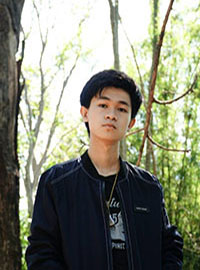
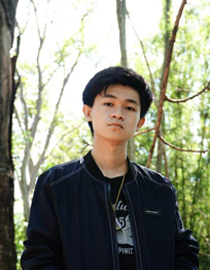
fix images

diff --git a/aboutus.html b/aboutus.html
@@ -95,6 +95,7 @@
             </nav>
           </div>
     </div>
+    <!-- Header -->
     <div class="container">
         <div class="p-4 p-md-5 mb-4 text-white rounded " style="background-image: url('https://images.unsplash.com/photo-1531331432998-4002cbf3b28c?ixid=MXwxMjA3fDB8MHxwaG90by1wYWdlfHx8fGVufDB8fHw%3D&ixlib=rb-1.2.1&auto=format&fit=crop&w=1050&q=80')">
             <div class="col-md-6 px-0">
@@ -103,166 +104,167 @@
               <a href="#ourshop" class="text-white fw-bold">More details...</a>
             </div>
         </div>
-        <!-- <div class="card bg-dark text-white mb-4 rounded">
-          <img src="https://images.unsplash.com/photo-1531331432998-4002cbf3b28c?ixid=MXwxMjA3fDB8MHxwaG90by1wYWdlfHx8fGVufDB8fHw%3D&ixlib=rb-1.2.1&auto=format&fit=crop&w=600&h=150&q=80" class="card-img" alt="...">
-          <div class="card-img-overlay">
-            <h1 class="display-4 fst-italic">90's taste</h1>
-            <p class="lead my-3">We are the biggest 90's online shop. We are selling Cassette tape, Vinyl, and Films</p>
-              <a href="#ourshop" class="text-white fw-bold">More details...</a>
-          </div>
-        </div> -->
-        <div class="container" id="dev">
-            <h3 class="pb-4 mb-4 border-bottom">Developers</h3>
-        </div>
-        <div class="container-fluid">
-          <div class="row mb-2">
-              <div class="col-md-6">
-                <div class="row g-0 border rounded overflow-hidden flex-md-row mb-4 shadow-sm h-md-250 position-relative">
-                  <div class="col p-4 d-flex flex-column position-static">
-                    <h4 class="mb-0">PRANUNGFUN PRAPAENEE </h4>
-                    <div class="mb-1 ">(Pin)</div>
-                    <p class="card-text mb-auto">This is a wider card with supporting text below as a natural lead-in to additional content.</p>
-                    <p class="text-muted">Email: pranungfun.pra@student.mahidol.ac.th</p>
-                  </div>
-                  <div class="col-auto d-flex d-lg-block m-auto">
-                      <img src="image\profile images\Pin.jpg" alt="Pin" width="200" height="270">
-                  </div>
+    </div>
+    <!-- Header ended -->
+
+    <!-- Developers -->
+      <div class="container" id="dev">
+          <h3 class="pb-4 mb-4 border-bottom">Developers</h3>
+      </div>
+      <div class="container">
+        <div class="row mb-2">
+            <div class="col-md-6">
+              <div class="row g-0 border rounded overflow-hidden flex-md-row mb-4 shadow-sm h-md-250 position-relative">
+                <div class="col p-4 d-flex flex-column position-static">
+                  <h4 class="mb-0">PRANUNGFUN PRAPAENEE </h4>
+                  <div class="mb-1 ">(Pin)</div>
+                  <p class="card-text mb-auto">This is a wider card with supporting text below as a natural lead-in to additional content.</p>
+                  <p class="text-muted">Email: pranungfun.pra@student.mahidol.ac.th</p>
+                </div>
+                <div class="col-auto d-flex d-lg-block m-auto">
+                    <img src="image\profile images\pixel.jpg" alt="Pin" width="210" height="270">
                 </div>
               </div>
-              <div class="col-md-6">
-                  <div class="row g-0 border rounded overflow-hidden flex-md-row mb-4 shadow-sm h-md-250 position-relative">
-                    <div class="col p-4 d-flex flex-column position-static">
-                      <h4 class="mb-0">PONGSAKORN PIBOONPONGPUN</h4>
-                      <div class="mb-1 ">(Mark)</div>
-                      <p class="card-text mb-auto">This is a wider card with supporting text below as a natural lead-in to additional content.</p>
-                      <p class="text-muted">Email: pongsakron.pib@student.mahidol.ac.th</p>
-                    </div>
-                    <div class="col-auto d-flex d-lg-block m-auto">
-                      <img src="image\profile images\Mark.jpg" alt="Pin" width="200" height="270">
-                    </div>
+            </div>
+            <div class="col-md-6">
+                <div class="row g-0 border rounded overflow-hidden flex-md-row mb-4 shadow-sm h-md-250 position-relative">
+                  <div class="col p-4 d-flex flex-column position-static">
+                    <h4 class="mb-0">PONGSAKORN PIBOONPONGPUN</h4>
+                    <div class="mb-1 ">(Mark)</div>
+                    <p class="card-text mb-auto">This is a wider card with supporting text below as a natural lead-in to additional content.</p>
+                    <p class="text-muted">Email: pongsakron.pib@student.mahidol.ac.th</p>
                   </div>
-              </div>
-              <div class="col-md-6">
-                  <div class="row g-0 border rounded overflow-hidden flex-md-row mb-4 shadow-sm h-md-250 position-relative">
-                    <div class="col p-4 d-flex flex-column position-static">
-                      <h4 class="mb-0">SHAN LI</h4>
-                      <div class="mb-1 ">(Alina)</div>
-                      <p class="card-text mb-auto">This is a wider card with supporting text below as a natural lead-in to additional content.</p>
-                      <p class="text-muted">Email: shan.li@student.mahidol.ac.th</p>
-                    </div>
-                    <div class="col-auto d-flex d-lg-block m-auto">
-                      <img src="image\profile images\Alina.jpg" alt="Pin" width="200" height="250">
-                    </div>
+                  <div class="col-auto d-flex d-lg-block m-auto">
+                    <img src="image\profile images\Mark.jpg" alt="Mark" width="210" height="270">
                   </div>
-              </div>
-              <div class="col-md-6">
-                  <div class="row g-0 border rounded overflow-hidden flex-md-row mb-4 shadow-sm h-md-250 position-relative">
-                    <div class="col p-4 d-flex flex-column position-static">
-                      <h4 class="mb-0">LUXI XIE</h4>
-                      <div class="mb-1 ">(Mandy)</div>
-                      <p class="card-text mb-auto">This is a wider card with supporting text below as a natural lead-in to additional content.</p>
-                      <p class="text-muted">Email: luxi.xie@student.mahidol.ac.th</p>
-                    </div>
-                    <div class="col-auto d-flex d-lg-block m-auto">
-                      <img src="image\profile images\Mandy.jpg" alt="Pin" width="200" height="250">
-                    </div>
+                </div>
+            </div>
+            <div class="col-md-6">
+                <div class="row g-0 border rounded overflow-hidden flex-md-row mb-4 shadow-sm h-md-250 position-relative">
+                  <div class="col p-4 d-flex flex-column position-static">
+                    <h4 class="mb-0">SHAN LI</h4>
+                    <div class="mb-1 ">(Alina)</div>
+                    <p class="card-text mb-auto">This is a wider card with supporting text below as a natural lead-in to additional content.</p>
+                    <p class="text-muted">Email: shan.li@student.mahidol.ac.th</p>
                   </div>
-              </div>
-              <div class="col-md-6">
-                  <div class="row g-0 border rounded overflow-hidden flex-md-row mb-4 shadow-sm h-md-250 position-relative">
-                    <div class="col p-4 d-flex flex-column position-static">
-                      <h3 class="mb-0">Nopparat Pengsuk</h3>
-                      <div class="mb-1 text-muted">(Boo)</div>
-                      <p class="card-text mb-auto">This is a wider card with supporting text below as a natural lead-in to additional content.</p>
-                      <p class="text-muted">Email: nopparat.pen@student.mahidol.ac.th</p>
-                    </div>
-                    <div class="col-auto d-flex d-lg-block m-auto">
-                      <img src="image\profile images\Baby.jpg" alt="Pin" width="200" height="250">
-                    </div>
+                  <div class="col-auto d-flex d-lg-block m-auto">
+                    <img src="image\profile images\Alina.jpg" alt="Alina" width="210" height="250">
                   </div>
-              </div>
-          </div>
+                </div>
+            </div>
+            <div class="col-md-6">
+                <div class="row g-0 border rounded overflow-hidden flex-md-row mb-4 shadow-sm h-md-250 position-relative">
+                  <div class="col p-4 d-flex flex-column position-static">
+                    <h4 class="mb-0">LUXI XIE</h4>
+                    <div class="mb-1 ">(Mandy)</div>
+                    <p class="card-text mb-auto">This is a wider card with supporting text below as a natural lead-in to additional content.</p>
+                    <p class="text-muted">Email: luxi.xie@student.mahidol.ac.th</p>
+                  </div>
+                  <div class="col-auto d-flex d-lg-block m-auto">
+                    <img src="image\profile images\Mandy.jpg" alt="Mandy" width="210" height="250">
+                  </div>
+                </div>
+            </div>
+            <div class="col-md-6">
+                <div class="row g-0 border rounded overflow-hidden flex-md-row mb-4 shadow-sm h-md-250 position-relative">
+                  <div class="col p-4 d-flex flex-column position-static">
+                    <h3 class="mb-0">Nopparat Pengsuk</h3>
+                    <div class="mb-1 ">(I Boo)</div>
+                    <p class="card-text mb-auto">This is a wider card with supporting text below as a natural lead-in to additional content.</p>
+                    <p class="text-muted">Email: nopparat.pen@student.mahidol.ac.th</p>
+                  </div>
+                  <div class="col-auto d-flex d-lg-block m-auto">
+                    <img src="image\profile images\Baby.jpg" alt="I' Boo" width="210" height="250">
+                  </div>
+                </div>
+            </div>
+        </div>
+      </div>
+        <br>
+        <br>
+    <!-- Developers ended  -->
 
-        </div>
-        <br>
-        <br>
+    <!-- Blog -->
+      <div class="container">
         <div class="row">
-            <div class="col-md-8">
-                <h3 class="pb-4 mb-4 border-bottom" id="ourshop"><strong>Our shop</strong></h3>
-                <article class="blog-post">
-                    <h2 class="blog-post-title">90's taste</h2>
-                    <p class="blog-post-meta">ITCS212-Web Programming</p>
-            
-                    <p>This website was create for learning purpose only.</p>
-                    <hr>
-                    <p>Almost heaven, West Virginia
-                      Blue Ridge Mountains, Shenandoah River
-                      Life is old there, older than the trees
-                      Younger than the mountains, growin' like a breeze</p>
-                    <blockquote>
-                      <p>Country roads, take me home
-                        To the place I belong
-                        West Virginia, mountain mama
-                        Take me home, country roads</p>
-                    </blockquote>
-                    <p>All my memories gather 'round her
-                      Miner's lady, stranger to blue water
-                      Dark and dusty, painted on the sky
-                      Misty taste of moonshine, teardrop in my eye</p>
-                    <blockquote>
-                      <p>Country roads, take me home
-                        To the place I belong
-                        West Virginia, mountain mama
-                        Take me home, country roads</p>
-                    <blockquote>
-                      <p>I hear her voice in the mornin' hour, she calls me
-                        The radio reminds me of my home far away
-                        Drivin' down the road, I get a feelin'
-                        That I should've been home…</p>
-                    <h6><p class="text-muted">Take Me Home, Country Roads</p></h6>
-                    <a href="https://www.youtube.com/watch?v=1vrEljMfXYo">John Denver</a>
-                </article>
-                <br>
-                <br>
-                <h3 class="pb-4 mb-4 border-bottom" id="awards"><strong>Awards</strong></h3>
-                <article class="blog-post">
-                    <div class="card-group">
-                        <div class="card" style="width: 18rem; margin-right:10%">
-                            <img src="https://www.flaticon.com/svg/vstatic/svg/3112/3112946.svg?token=exp=1613717814~hmac=3c2f0aeafd85cde68c7a7e5d13aa8b44" class="card-img-top" alt="...">
-                            <div class="card-body">
-                            <p class="card-text">We won awards in 2019</p>
-                            </div>
-                        </div>
-                        <div class="card" style="width: 18rem; margin-right:10%">
-                            <img src="https://www.flaticon.com/svg/vstatic/svg/3176/3176367.svg?token=exp=1613717878~hmac=63f233a7c8703327ab5e57dc65dd2fef" class="card-img-top" alt="...">
-                            <div class="card-body">
-                            <p class="card-text">We won awards in 2020</p>
-                            </div>
-                        </div>
-                        <div class="card" style="width: 18rem; margin-right:10%">
-                            <img src="https://www.flaticon.com/svg/vstatic/svg/3112/3112946.svg?token=exp=1613717814~hmac=3c2f0aeafd85cde68c7a7e5d13aa8b44" class="card-img-top" alt="...">
-                            <div class="card-body">
-                            <p class="card-text">We won awards in 2021</p>
-                            </div>
-                        </div>
-                    </div>
-                </article>
-                <br>
-                <br>
-            </div>
-            
-            <div class="col-md-4">
-                <div class="p-4">
-                    <h4 class="border-bottom" id="social"><b>Social media</b></h4>
-                    <ol class="list-unstyled">
-                      <li><a href="https://github.com/itsmebabysmiley/Online-shopping">GitHub</a></li>
-                      <li><a href="#">Twitter</a></li>
-                      <li><a href="#">Facebook</a></li>
-                    </ol>
+          <div class="col-md-8">
+              <h3 class="pb-4 mb-4 border-bottom" id="ourshop"><strong>Our shop</strong></h3>
+              <article class="blog-post">
+                  <h2 class="blog-post-title">90's taste</h2>
+                  <p class="blog-post-meta">ITCS212-Web Programming</p>
+          
+                  <p>This website was create for learning purpose only.</p>
+                  <hr>
+                  <p>Almost heaven, West Virginia
+                    Blue Ridge Mountains, Shenandoah River
+                    Life is old there, older than the trees
+                    Younger than the mountains, growin' like a breeze</p>
+                  <blockquote>
+                    <p>Country roads, take me home
+                      To the place I belong
+                      West Virginia, mountain mama
+                      Take me home, country roads</p>
+                  </blockquote>
+                  <p>All my memories gather 'round her
+                    Miner's lady, stranger to blue water
+                    Dark and dusty, painted on the sky
+                    Misty taste of moonshine, teardrop in my eye</p>
+                  <blockquote>
+                    <p>Country roads, take me home
+                      To the place I belong
+                      West Virginia, mountain mama
+                      Take me home, country roads</p>
+                  <blockquote>
+                    <p>I hear her voice in the mornin' hour, she calls me
+                      The radio reminds me of my home far away
+                      Drivin' down the road, I get a feelin'
+                      That I should've been home…</p>
+                  <h6><p class="text-muted">Take Me Home, Country Roads</p></h6>
+                  <a href="https://www.youtube.com/watch?v=1vrEljMfXYo">John Denver</a>
+              </article>
+              <br>
+              <br>
+              <h3 class="pb-4 mb-4 border-bottom" id="awards"><strong>Awards</strong></h3>
+              <article class="blog-post">
+                  <div class="card-group">
+                      <div class="card" style="width: 18rem; margin-right:10%">
+                          <img src="https://www.flaticon.com/svg/vstatic/svg/3112/3112946.svg?token=exp=1613717814~hmac=3c2f0aeafd85cde68c7a7e5d13aa8b44" class="card-img-top" alt="...">
+                          <div class="card-body">
+                          <p class="card-text">We won awards in 2019</p>
+                          </div>
+                      </div>
+                      <div class="card" style="width: 18rem; margin-right:10%">
+                          <img src="https://www.flaticon.com/svg/vstatic/svg/3176/3176367.svg?token=exp=1613717878~hmac=63f233a7c8703327ab5e57dc65dd2fef" class="card-img-top" alt="...">
+                          <div class="card-body">
+                          <p class="card-text">We won awards in 2020</p>
+                          </div>
+                      </div>
+                      <div class="card" style="width: 18rem; margin-right:10%">
+                          <img src="https://www.flaticon.com/svg/vstatic/svg/3112/3112946.svg?token=exp=1613717814~hmac=3c2f0aeafd85cde68c7a7e5d13aa8b44" class="card-img-top" alt="...">
+                          <div class="card-body">
+                          <p class="card-text">We won awards in 2021</p>
+                          </div>
+                      </div>
                   </div>
-            </div>
-        </div>
-    </div>
+              </article>
+              <br>
+              <br>
+          </div>
+          
+          <div class="col-md-4">
+              <div class="p-4">
+                  <h4 class="border-bottom" id="social"><b>Social media</b></h4>
+                  <ol class="list-unstyled">
+                    <li><a href="https://github.com/itsmebabysmiley/Online-shopping">GitHub</a></li>
+                    <li><a href="#">Twitter</a></li>
+                    <li><a href="#">Facebook</a></li>
+                  </ol>
+                </div>
+          </div>
+      </div>
+      </div>
+    <!-- Blog ended -->
+    
 
 
     <!-- FOOTER -->
